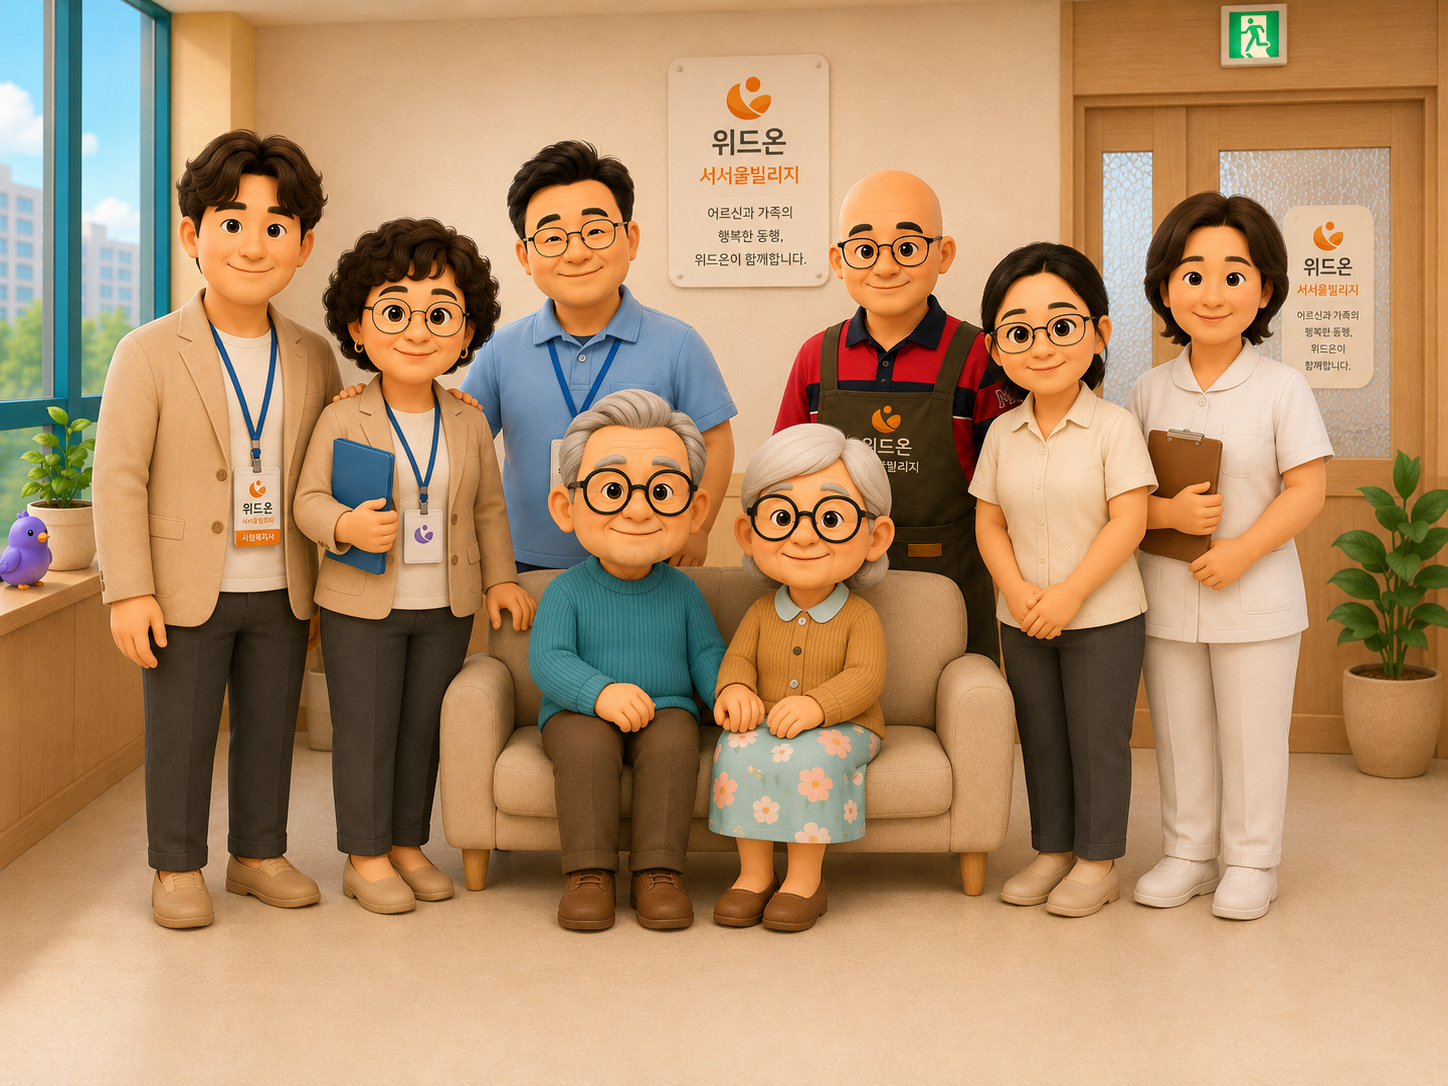
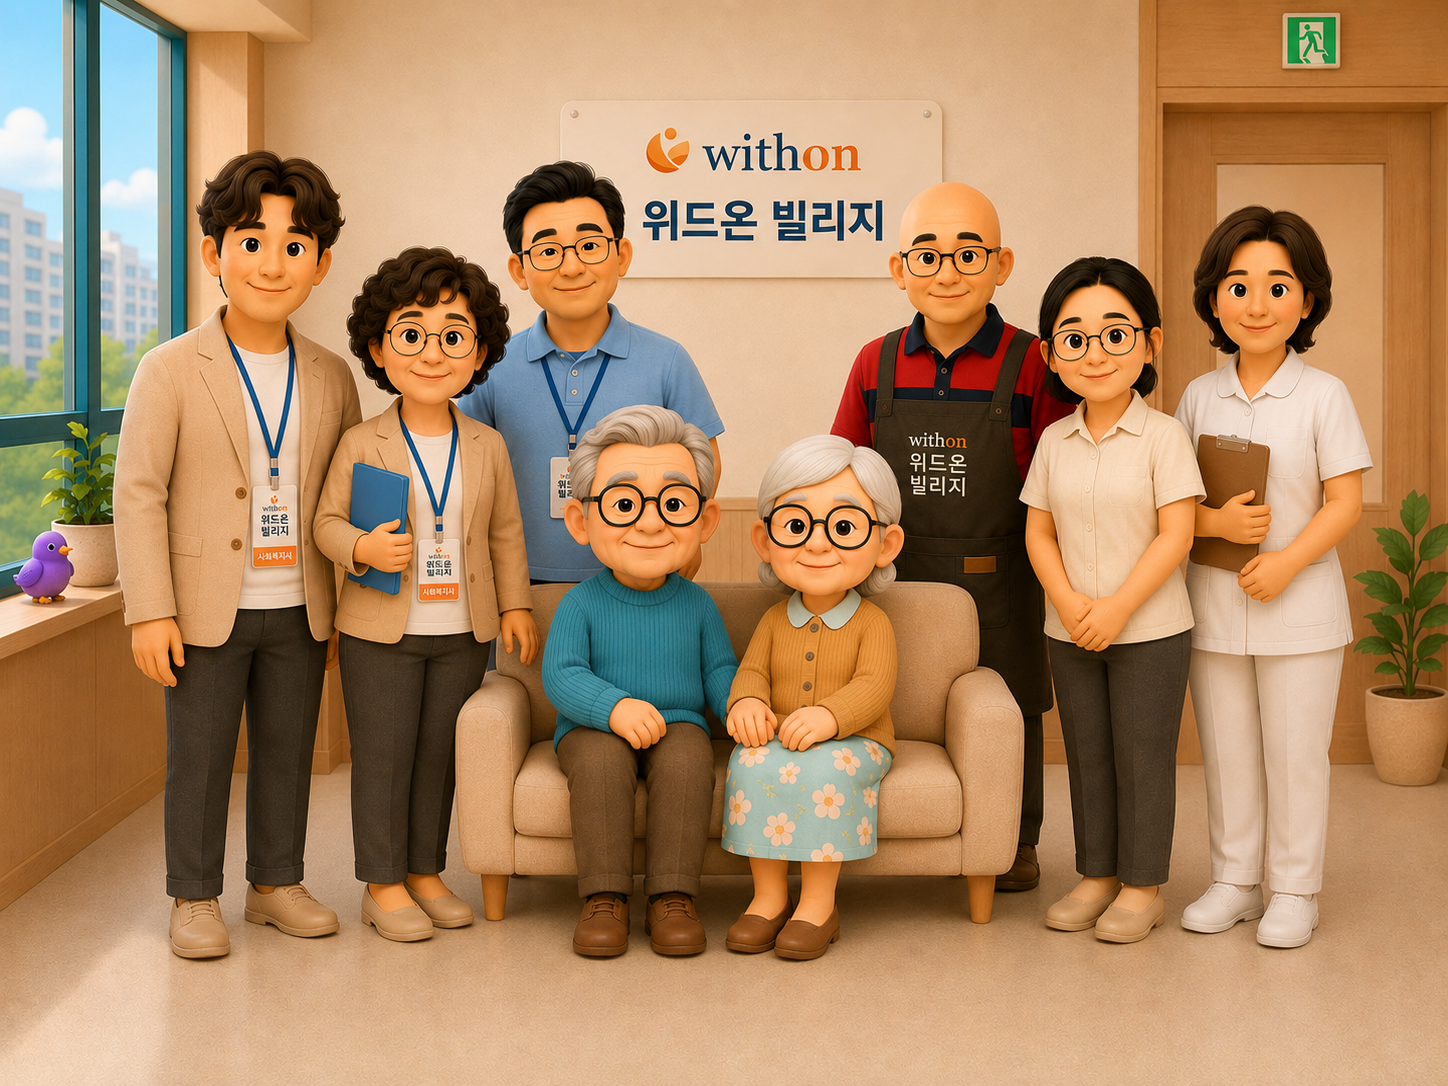
히어로 이미지 교체(로고 수정본), 모바일에도 팀 사진 노출, 데스크탑 좌측 패널에 사업장 안내 카드 배치

diff --git a/index.html b/index.html
@@ -47,6 +47,8 @@
     <p>요양원 · 재가복지 · 복지용구를 한 곳에서</p>
   </section>
 
+  <img class="hero-photo-mobile" src="assets/images/hero-team.png" alt="위드온 빌리지 직원과 어르신">
+
   <section class="split-hero">
     <div class="split-hero-left">
       <div class="split-hero-logo">
@@ -58,6 +60,32 @@
         <h1>함께여서,<br>삶은 계속됩니다</h1>
         <p>요양원 · 재가복지 · 복지용구를 한 곳에서</p>
       </div>
+      <div class="split-hero-business">
+        <a class="card" href="village/index.html">
+          <div class="card-icon"><i class="ti ti-building-community"></i></div>
+          <div class="card-body">
+            <p class="card-eyebrow">요양원</p>
+            <p class="card-title facility-title">위드<span class="facility-orange">온</span> 빌리지</p>
+          </div>
+          <i class="ti ti-chevron-right card-arrow"></i>
+        </a>
+        <a class="card" href="home-service/index.html">
+          <div class="card-icon"><i class="ti ti-home-heart"></i></div>
+          <div class="card-body">
+            <p class="card-eyebrow">재가복지센터</p>
+            <p class="card-title facility-title">위드<span class="facility-orange">온</span> 홈서비스</p>
+          </div>
+          <i class="ti ti-chevron-right card-arrow"></i>
+        </a>
+        <a class="card" href="store/index.html">
+          <div class="card-icon"><i class="ti ti-wheelchair"></i></div>
+          <div class="card-body">
+            <p class="card-eyebrow">복지용구사업소</p>
+            <p class="card-title facility-title">위드<span class="facility-orange">온</span> 스토어</p>
+          </div>
+          <i class="ti ti-chevron-right card-arrow"></i>
+        </a>
+      </div>
     </div>
     <div class="split-hero-right">
       <img src="assets/images/hero-team.png" alt="위드온 빌리지 직원과 어르신">
@@ -68,7 +96,7 @@
     </div>
   </section>
 
-  <section class="section">
+  <section class="section business-section">
     <p class="section-title">사업장 안내</p>
     <div class="card-list grid-desktop">
 

diff --git a/assets/css/style.css b/assets/css/style.css
@@ -241,6 +241,13 @@ img {
   display: none;
 }
 
+.hero-photo-mobile {
+  width: 100%;
+  height: 220px;
+  object-fit: cover;
+  display: block;
+}
+
 /* section */
 .section {
   padding: 18px 16px 6px;
@@ -766,13 +773,22 @@ img {
 
   .page.has-split-hero .site-header,
   .page.has-split-hero .hero,
-  .page.has-split-hero .mission {
+  .page.has-split-hero .mission,
+  .page.has-split-hero .business-section,
+  .hero-photo-mobile {
     display: none;
   }
 
   .split-hero {
     display: flex;
     min-height: 620px;
+  }
+
+  .split-hero-business {
+    display: flex;
+    flex-direction: column;
+    gap: 10px;
+    margin-top: 28px;
   }
 
   .split-hero-left {